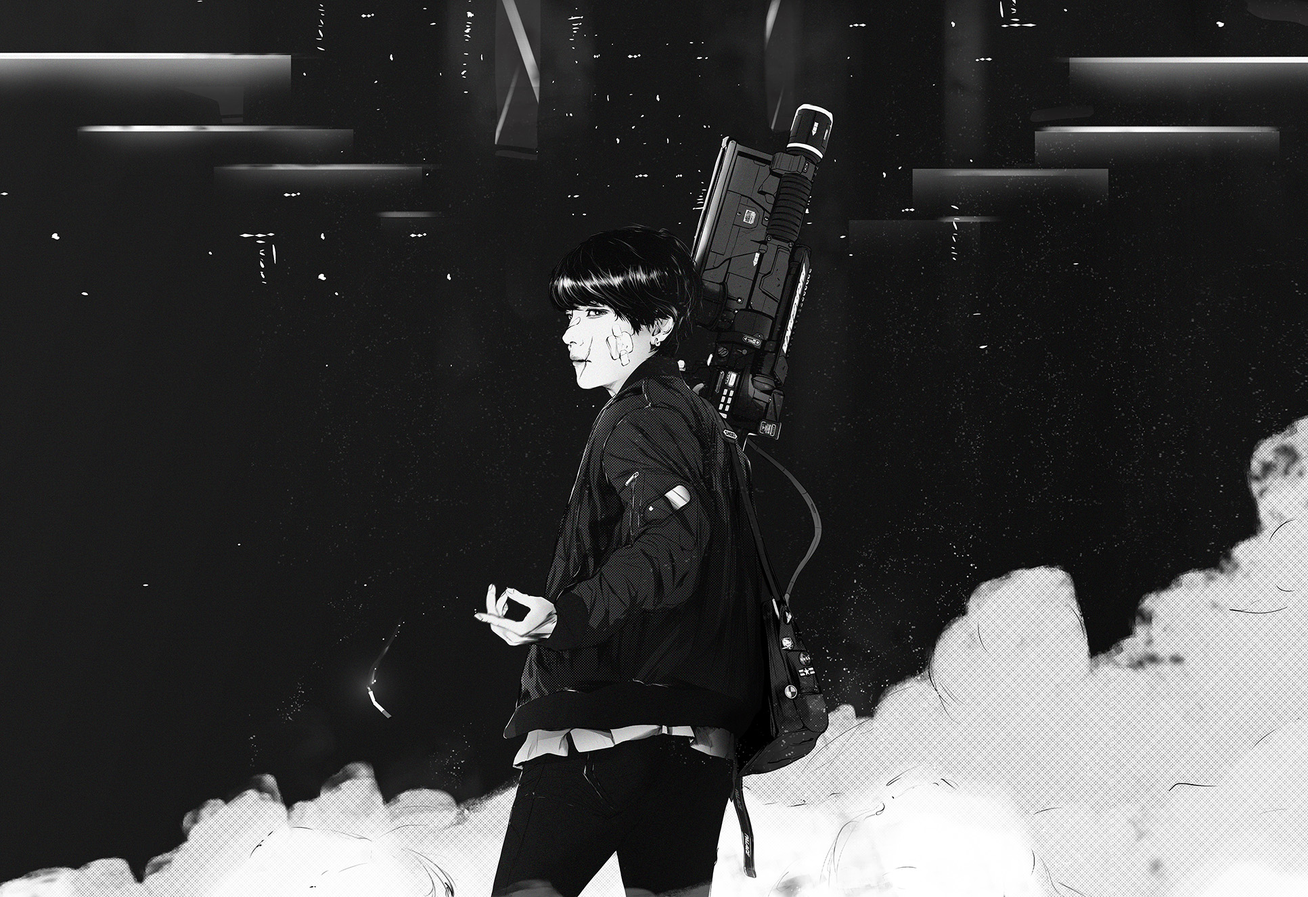
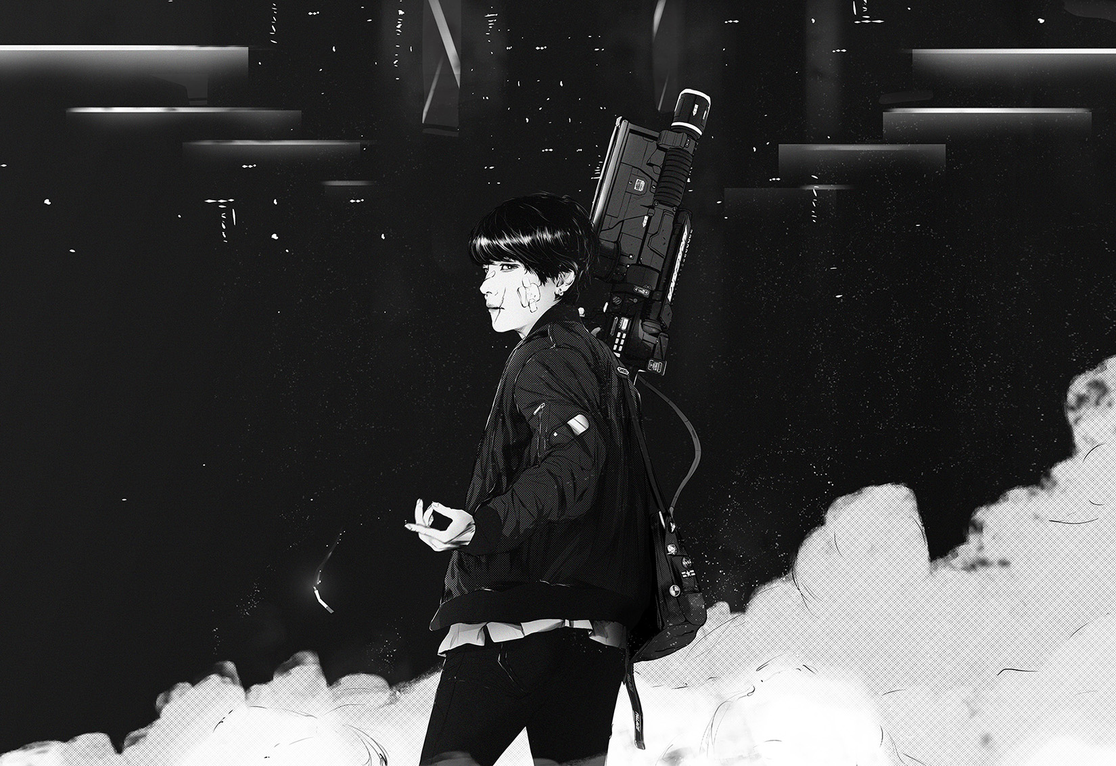
s

Changed region(s): [[0.4327, 0.3092, 0.4636, 0.3401]]

diff --git a/lifeanddeath.html b/lifeanddeath.html
@@ -204,9 +204,9 @@ $(document).ready(function(){
 
 
 <div class="front_artwork">
-   <img class="cyberpunk_hifumi_resize" style ="max-height: 100%;" src="images/raymond-lam_kaneda_landscape_small_web.jpg" data-src="images/raymond-lam_kaneda_landscape_small_web.jpg" data-srcset="images/raymond-lam_kaneda_landscape_small_web.jpg" alt="man motorcycle anime futuristic neon tokyo"></img>
+   <img class="cyberpunk_hifumi_resize" style ="max-height: 100%;" src="images/raymond-lam_kaneda_landscape_noText_small_web.jpg" data-src="images/raymond-lam_kaneda_landscape_noText_small_web.jpg" data-srcset="images/raymond-lam_kaneda_landscape_noText_small_web.jpg" alt="man motorcycle anime futuristic neon tokyo"></img>
     <div class="image_assets">
-          <a href="images/raymond-lam_kaneda_landscape_small_web.jpg" class="buttons" target="_blank" target="_blank"><i class="material-icons">crop_free</i></a>
+          <a href="images/raymond-lam_kaneda_landscape_noText_small_web.jpg" class="buttons" target="_blank" target="_blank"><i class="material-icons">crop_free</i></a>
       </div>
   </div>
 
